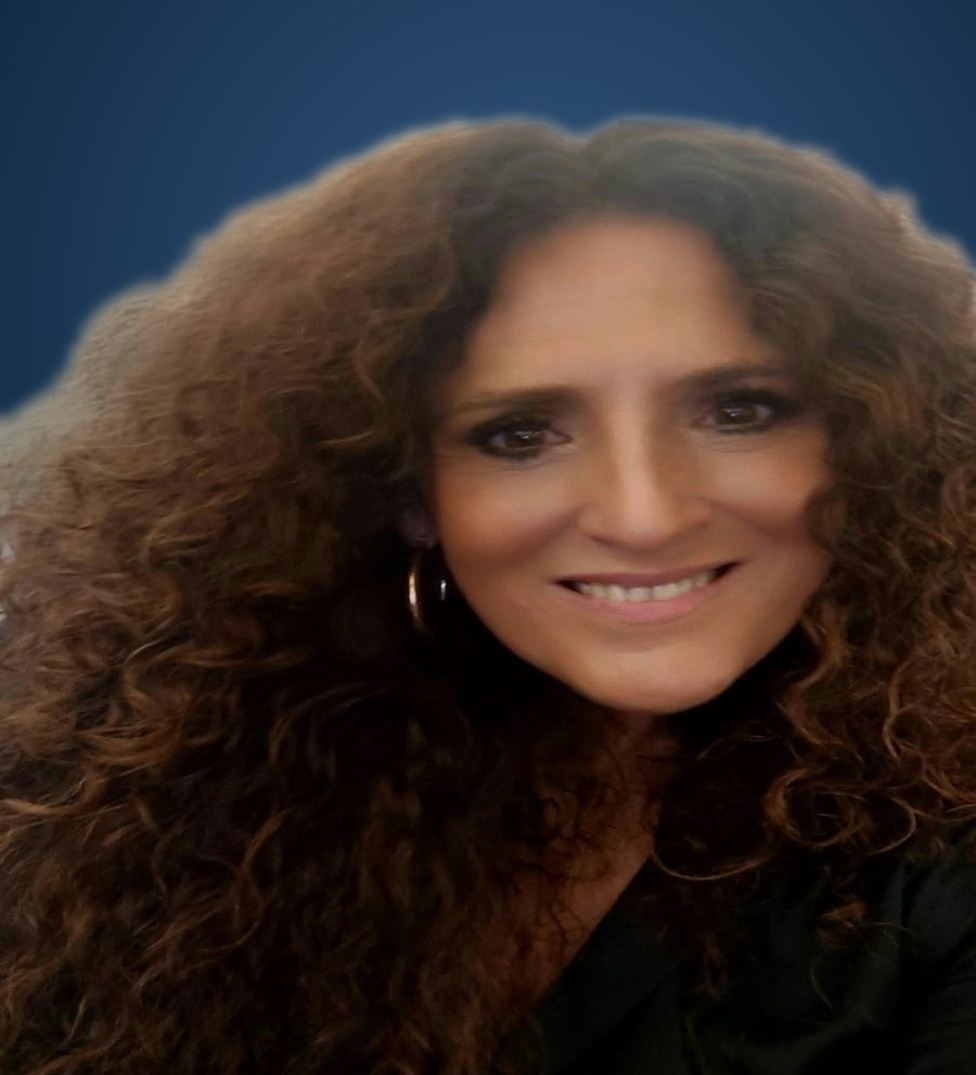
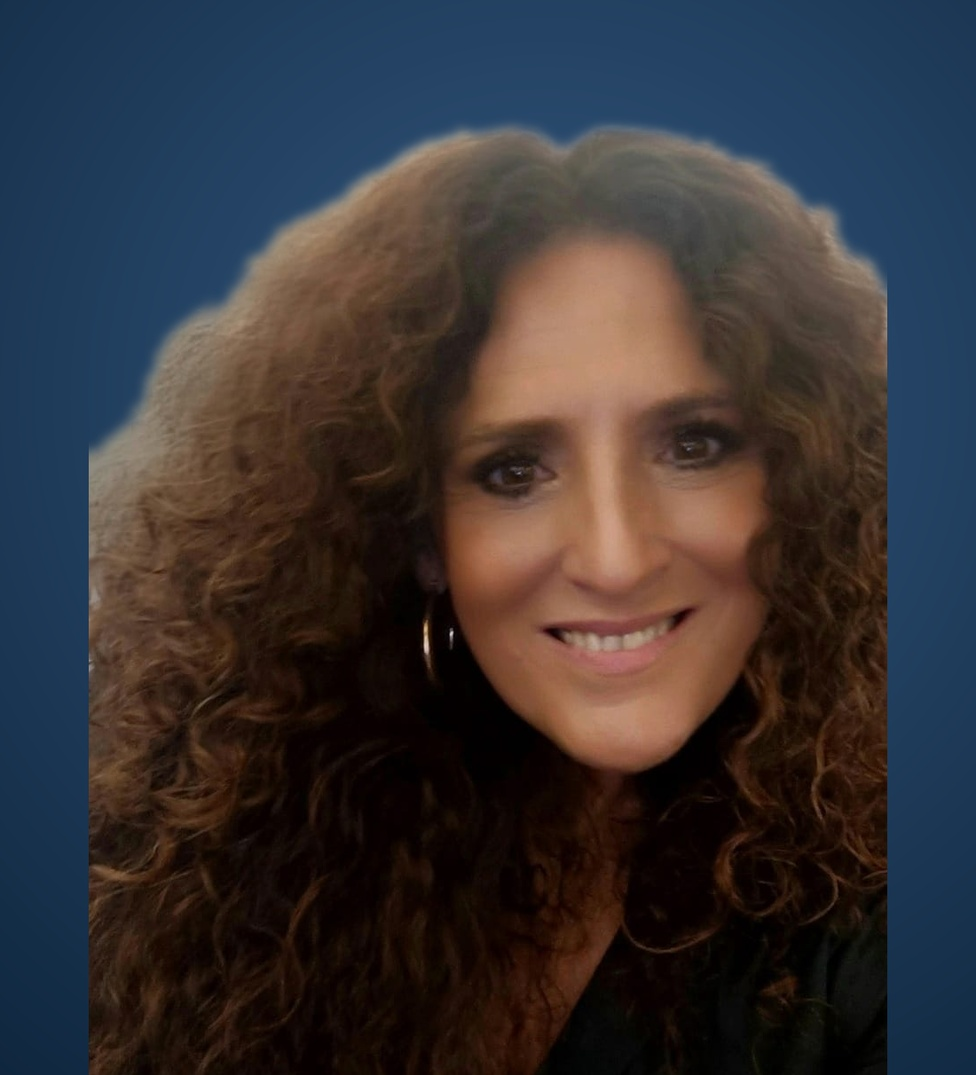
fix: Teresa Avalos - encuadre alejado (opcion A) con fondo azul

diff --git a/50_visionarios/index.html b/50_visionarios/index.html
@@ -668,7 +668,7 @@
                 </div>
             </article>            <article class="group cursor-pointer flex flex-col gap-4 filter-item kol" onclick="openModal('modal-46')">
                 <div class="card-image-wrapper aspect-[3/4] rounded-sm overflow-hidden relative bg-dark-800">
-                    <img src="images/slide_46.jpg" alt="Retrato de Teresa Ávalos Ureña" class="card-image w-full h-full object-cover">
+                    <img src="images/slide_46.jpg?v=8" alt="Retrato de Teresa Ávalos Ureña" class="card-image w-full h-full object-cover">
                     <div class="absolute inset-0 bg-gradient-to-t from-dark-900/90 via-dark-900/20 to-transparent opacity-60 group-hover:opacity-80 transition-opacity"></div>
                     <div class="absolute bottom-4 left-4 right-4">
                         <span class="inline-block px-2 py-1 bg-gold-500/20 text-gold-400 text-xs font-sans tracking-wider uppercase backdrop-blur-sm border border-gold-500/30 mb-2">KOL</span>
@@ -1592,7 +1592,7 @@
                 ✕
             </button>
             <div class="w-full md:w-2/5 h-64 md:h-auto relative">
-                <img src="images/slide_46.jpg?v=7" alt="Retrato de Teresa Ávalos Ureña" class="absolute inset-0 w-full h-full object-cover" style="object-position:center 10%;">
+                <img src="images/slide_46.jpg?v=8" alt="Retrato de Teresa Ávalos Ureña" class="absolute inset-0 w-full h-full object-cover" style="object-position:center 10%;">
             </div>
             <div class="w-full md:w-3/5 p-8 md:p-12 overflow-y-auto max-h-[80vh]">
                 <span class="text-gold-400 font-sans tracking-widest uppercase text-xs font-semibold mb-2 block">06. KOL — Key Opinion Leaders</span>
